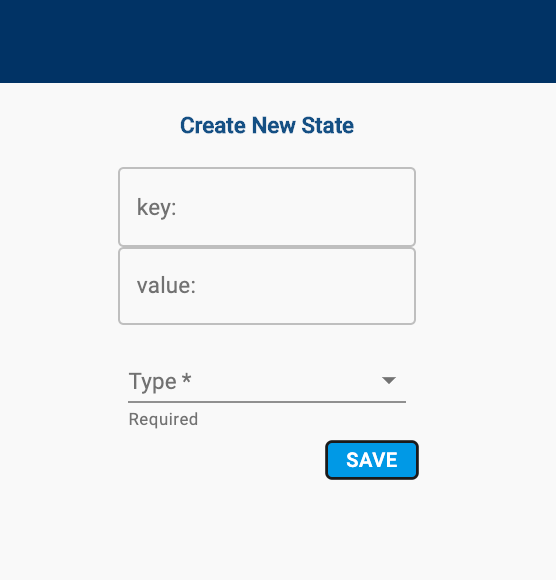
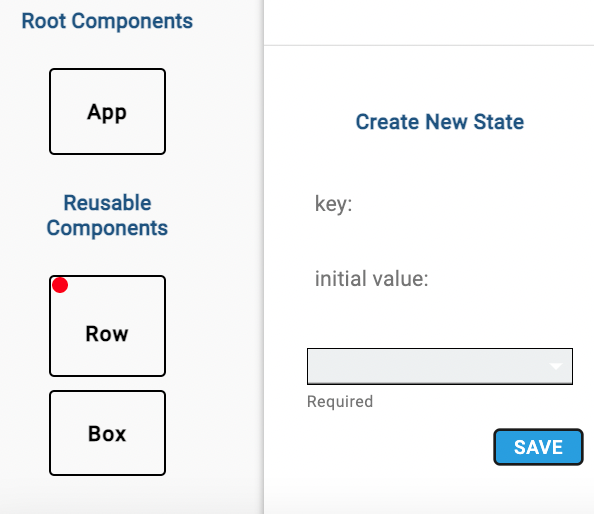
tutorial updated to include info for State Management Tab

diff --git a/app/src/tutorial/States.tsx b/app/src/tutorial/States.tsx
@@ -1,8 +1,12 @@
 import React from 'react';
 import createState from '../../../resources/state_tutorial_images/CreateState.png';
-import stateTable from '../../../resources/state_tutorial_images/StateTable.png';
 import codePreview from '../../../resources/state_tutorial_images/CodePreview.png';
-import deleteState from '../../../resources/state_tutorial_images/DeleteState.gif';
+import fullStateManageTab from '../../../resources/state_tutorial_images/fullStateManageTab.png'; 
+import table1 from '../../../resources/state_tutorial_images/table1.gif';
+import table3 from '../../../resources/state_tutorial_images/table3.gif';
+import deleteState2 from '../../../resources/state_tutorial_images/delete.gif';
+import display from '../../../resources/state_tutorial_images/display.gif';
+import codePreview2 from '../../../resources/state_tutorial_images/CodePreview2.png';
 
 const States: React.FC<{
   classes: any;
@@ -10,32 +14,70 @@ const States: React.FC<{
 }> = ({ classes, setPage }) => {
   return (
     <div className={classes.wrapper}>
-      <h1 className={classes.title}>State Features</h1>
+      <h1 className={classes.title}>State Management</h1>
       <hr />
-      <h2>Create New State Hook</h2>
+      <h2>Step 1: Click on the State Management Tab</h2>
       <p className={classes.text}>
-        To create a new state hook for your prototype application by going to the Creation Panel tab in the bottom Panel. Type in a key
-        and value for the state hook and it's type. Once done, press the save button to save the state hook.<br/><br/>
+        Within this tab, there are two sections: "Create/Edit" and "Display".
+        <br/><br/>
+        <div className={classes.imgWrapper}>
+          <img width="600" height="145" src={fullStateManageTab} />
+        </div>
+        </p>
+        <h2>Step 2: Create a New State Variable</h2>
+      <p className={classes.text}>
+        In the "Create/Edit" section of the State Manager, you can declare a new state variable. First make sure that you have selected the correct component on the left. This new state variable will be created inside the component highlighted with a red dot (as shown below). 
+        <br/><br/>You can create your state variable with a key, an intial value, and a type (ex: string, number, boolean, etc).<br/><br/>
         <div className={classes.imgWrapper}>
           <img className={classes.medImg} src={createState} />
         </div>
         <br/><br/>
-        Created state hooks can be viewed to the right in tabular form. This table will immediately add any created state hook.<br/><br/>
+        You will now see your new state variable in the "Current Component State" table. Also, you can see the React Hook that has been created for this state variable.
+        <br/><br/>
         <div className={classes.imgWrapper}>
-          <img className={classes.medImg} src={stateTable} />
-        </div><br></br>
-        Created state hooks will also be visible in the <span className={classes.notLink} onClick={() => setPage('Code Preview')} >code preview</span>.<br/><br/>
-        <div className={classes.imgWrapper}>
-          <img className={classes.medImg} src={codePreview} />
-        </div>
-      </p>
-      <hr />
-      <h2>Delete State Hook</h2>
+          <img width="600" src={table1} />
+      </div> 
+        </p>
+        <h2>Step 3: Pass in Props from Parent Component</h2>
       <p className={classes.text}>
-        To delete a created state hook, click the corresponding X for the state hook on the state hook table.<br/><br/>
+        In the "Create/Edit" section of the State Manager, you can also view props available from the parent component. You can choose to import any of the state variables, with or without their associated React Hooks. 
+        <br/><br/>Just click the plus sign next to the state you want to import into the current component. This will automatically update the "Passed In Props from Parent" table on the far right.<br/><br/>
         <div className={classes.imgWrapper}>
-          <img className={classes.img} src={deleteState} />
-      </div>
+          <img width="1100" src={table3} />
+        </div>
+        </p>
+      <h2>Step 4: Delete Any Unnecessary State Variables</h2>
+      <p className={classes.text}>
+        If there are any state variables you want to delete, you can do so in the "Create/Edit" tab!
+        <br/><br/>You can delete a state variable that was created in the current component by clicking the X next to it in the "Current Component State" table. <br/><br/>
+        You can also delete state from the "Passed In Props From Parent" table. This will delete the passed in props from the current component, but won't delete the original state variable inside the parent component.
+        <br/><br/>
+        For example, in the gif below, we can see the "num" state variable being deleted from the component "Row". Its associated React Hook is also automatically deleted. 
+        <br/><br/>
+        Then, the "setDarkMode" React Hook is deleted from "Passed In Props From Parent: App". However, if we click over to the "App" parent component, the "setDarkMode" React Hook is still available. 
+        <br/><br/>
+        <div className={classes.imgWrapper}>
+          <img width="1300" src={deleteState2} />
+        </div>
+        </p>
+        <br/><br/>
+      <h2>Step 5: Visualize the State Flow of Your Prototype Application</h2>
+      <p className={classes.text}>
+        Once you've added all your state variables to your components, you can click on the "Display" section of the State Manager. Here, you can see a tree diagram that shows the relationship between the components you have created. Click on each component to see its state variables -- including passed in props! <br/><br/>
+        On the left side of the screen, click on other root components (if using Classic React) or pages (if using Next.js or GatsbyJS) to see their tree diagrams too.  
+        <br/><br/>
+        <div className={classes.imgWrapper}>
+          <img width="1400" src={display} />
+        </div>
+        <br/><br/>
+        Created state variables and React Hooks will also be visible in the <span className={classes.notLink} onClick={() => setPage('Code Preview')} >code preview</span>.<br/><br/>
+        You can see below that the "num" and its associated React Hook have been passed in to the "Row" component from its parent component. 
+        <br/><br/>
+        On line 10, the state variable "darkMode" has been passed into the "Row" component from its parent, but without its React Hook, since we chose not to pass the hook down from the parent component. 
+        <br/><br/>
+        <div className={classes.imgWrapper}>
+          <img className={classes.medImg} src={codePreview2} />
+        </div>
       </p>
       <hr />
     </div>

diff --git a/app/src/tutorial/Tutorial.tsx b/app/src/tutorial/Tutorial.tsx
@@ -20,6 +20,9 @@ import ColorLensIcon from '@material-ui/icons/ColorLens';
 import SwapVertIcon from '@material-ui/icons/SwapVert';
 import KeyboardIcon from '@material-ui/icons/Keyboard';
 import BrushIcon from '@material-ui/icons/Brush';
+import HomeIcon from '@material-ui/icons/Home';
+import Button from '@material-ui/core/Button';
+
 
 const useStyles = makeStyles({
   root: {
@@ -137,10 +140,26 @@ const Tutorial: React.FC<RouteComponentProps> = () => {
     );
   });
   return (
+    <>
+    <div>
+            <Link to='/' style={{textDecoration: 'none'}}>
+              <Button
+                variant='contained'
+                color='primary'
+                style={{ minWidth: '137.69px'}}
+                className="navbarButton"
+                id="ratingButton"
+                endIcon={<HomeIcon/>}
+                > 
+                HOME
+              </Button>
+            </Link>
+          </div>
     <Container maxWidth="xl" className={classes.container}>
       <h1 className={classes.pageTitle}>ReacType Tutorial</h1>
       <div className={classes.wrapper}>{cards}</div>
     </Container>
+    </>
   );
 };
 export default withRouter(Tutorial);

diff --git a/app/src/tutorial/Customization.tsx b/app/src/tutorial/Customization.tsx
@@ -20,7 +20,7 @@ const Customization: React.FC<{
         made in the <span className={classes.notLink} onClick={() => setPage('Customization')}>
         customization</span> panel will be reflected immediately in the <span className={classes.notLink} onClick={() => setPage('Code Preview')}> 
         code preview </span> and demo render panel. See your changes in real time to decide what's best!<br/><br/>
-        To customize an HTML element, drag it onto the canvas and select it on the canvas. Then use the desired cusotmization feature.
+        To customize an HTML element, drag it onto the canvas and select it on the canvas. Then use the desired customization feature.
         Once done, press the save button to save your customization changes.
       </p>
       <hr />
